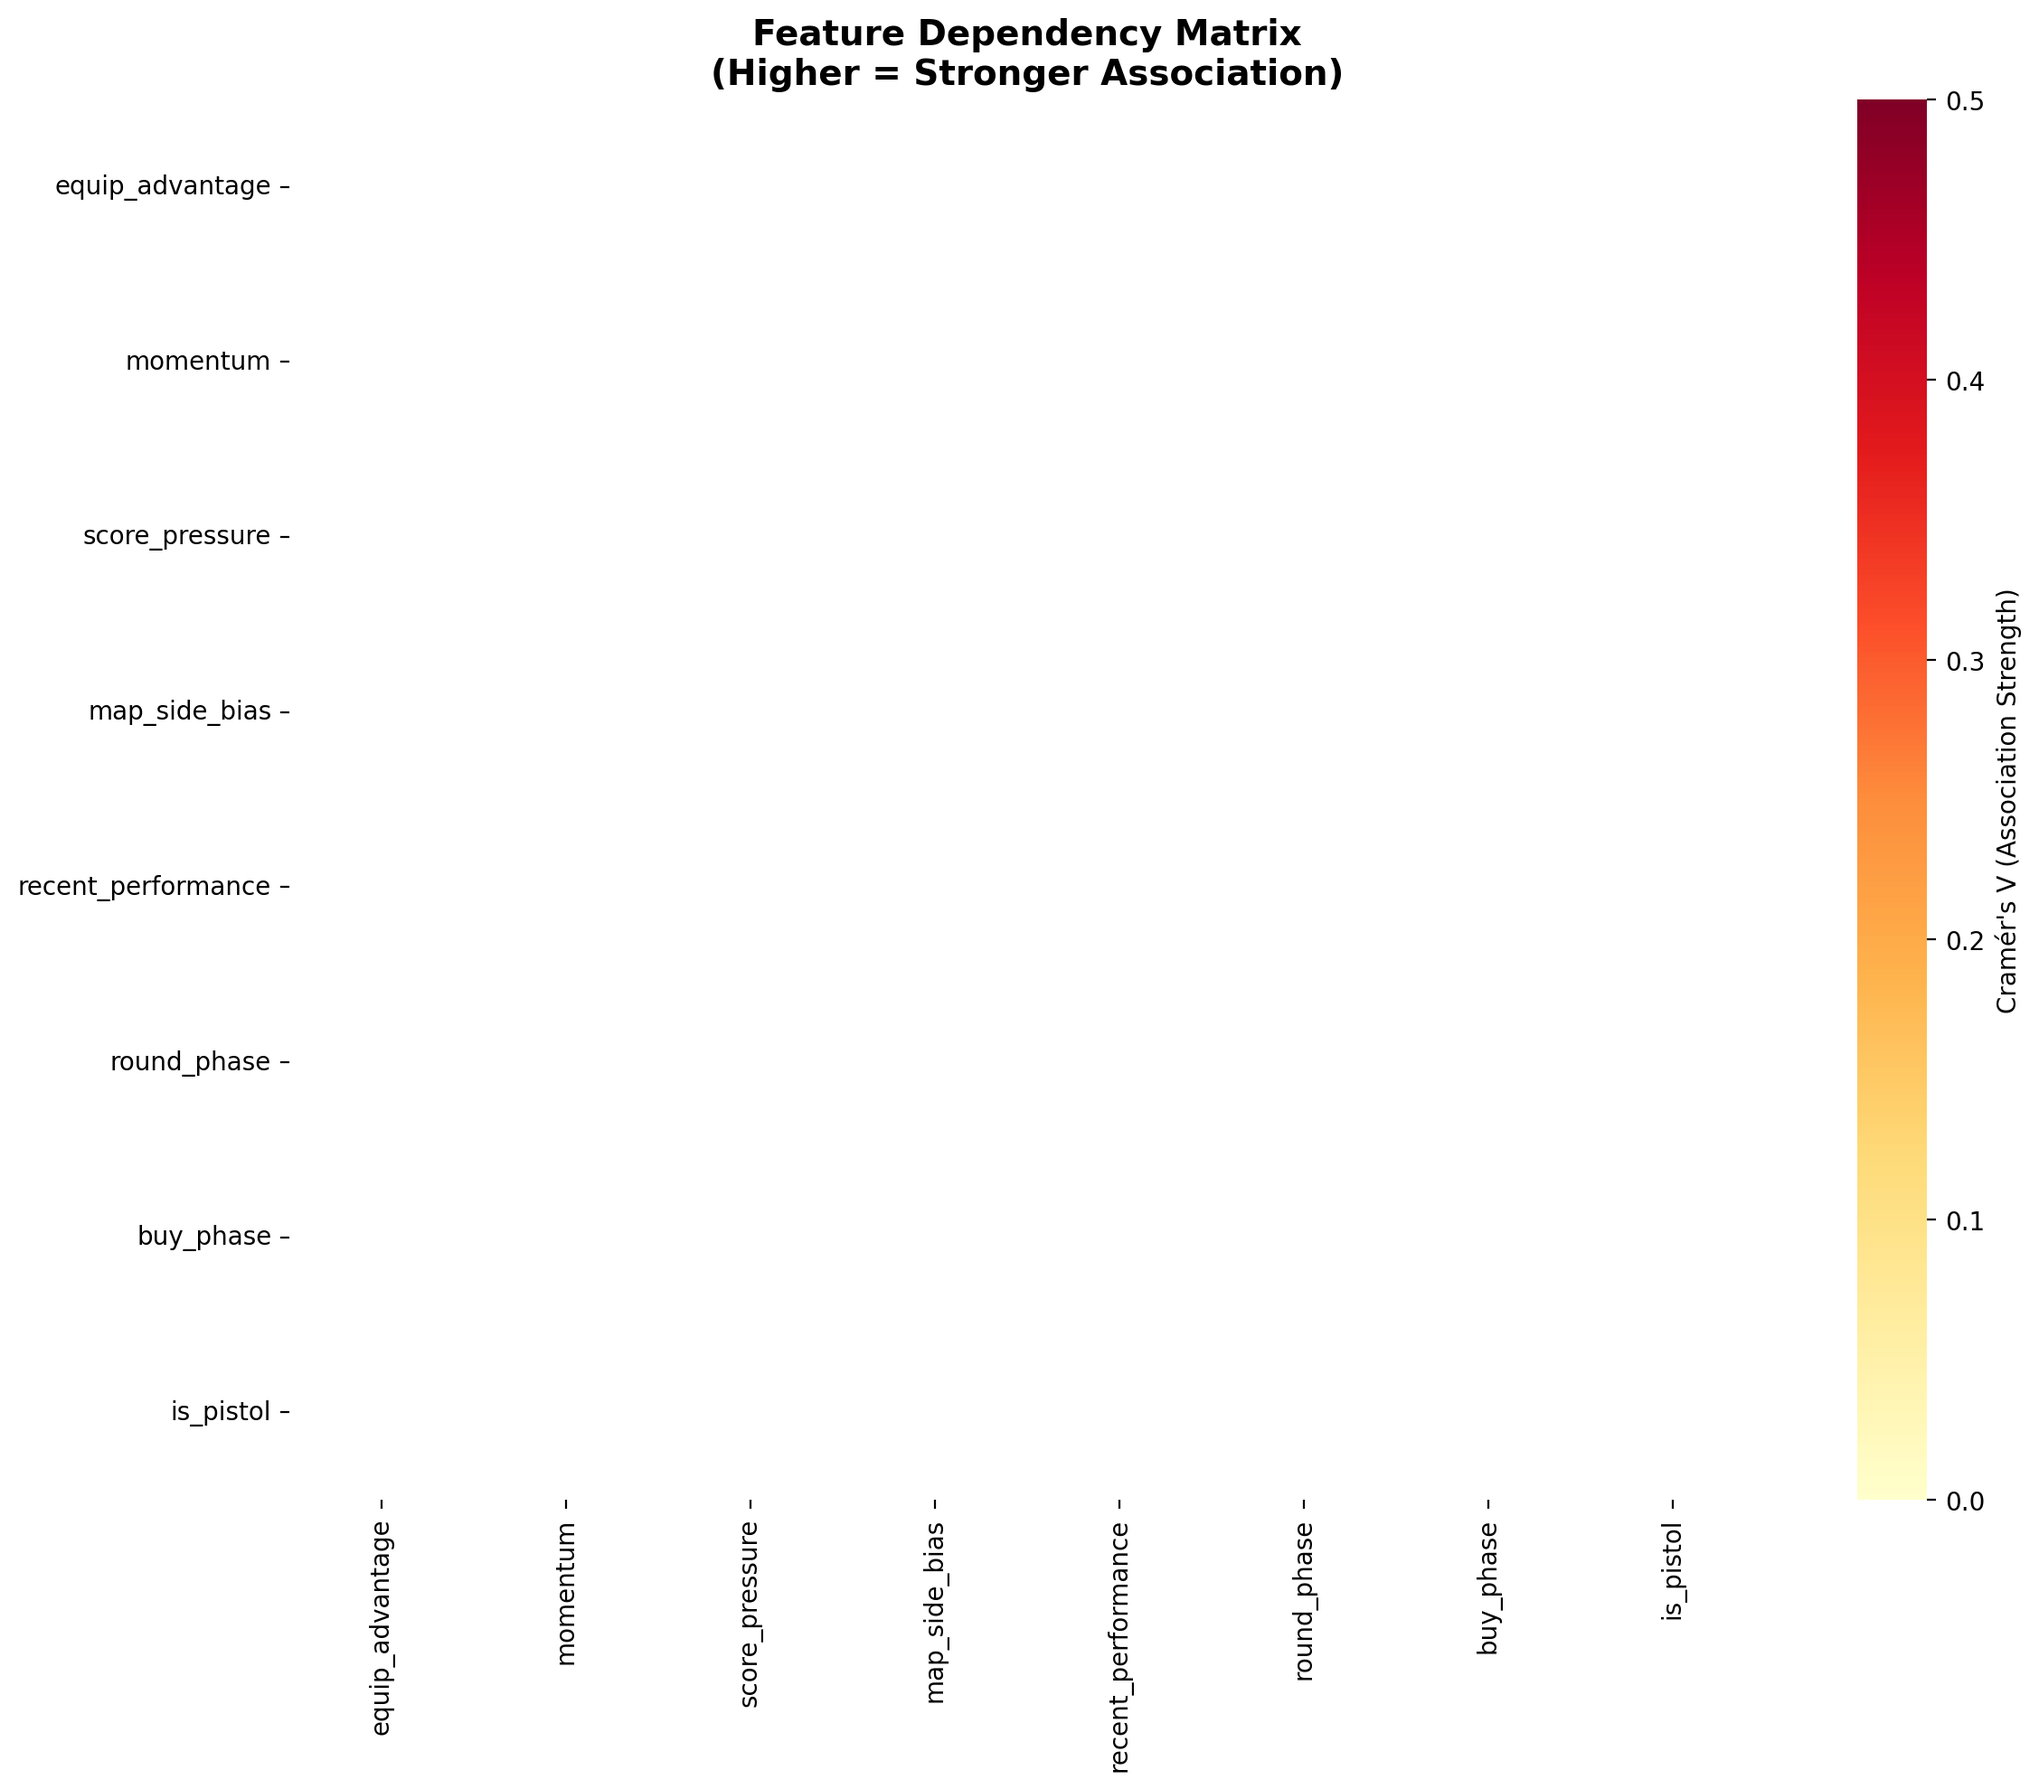
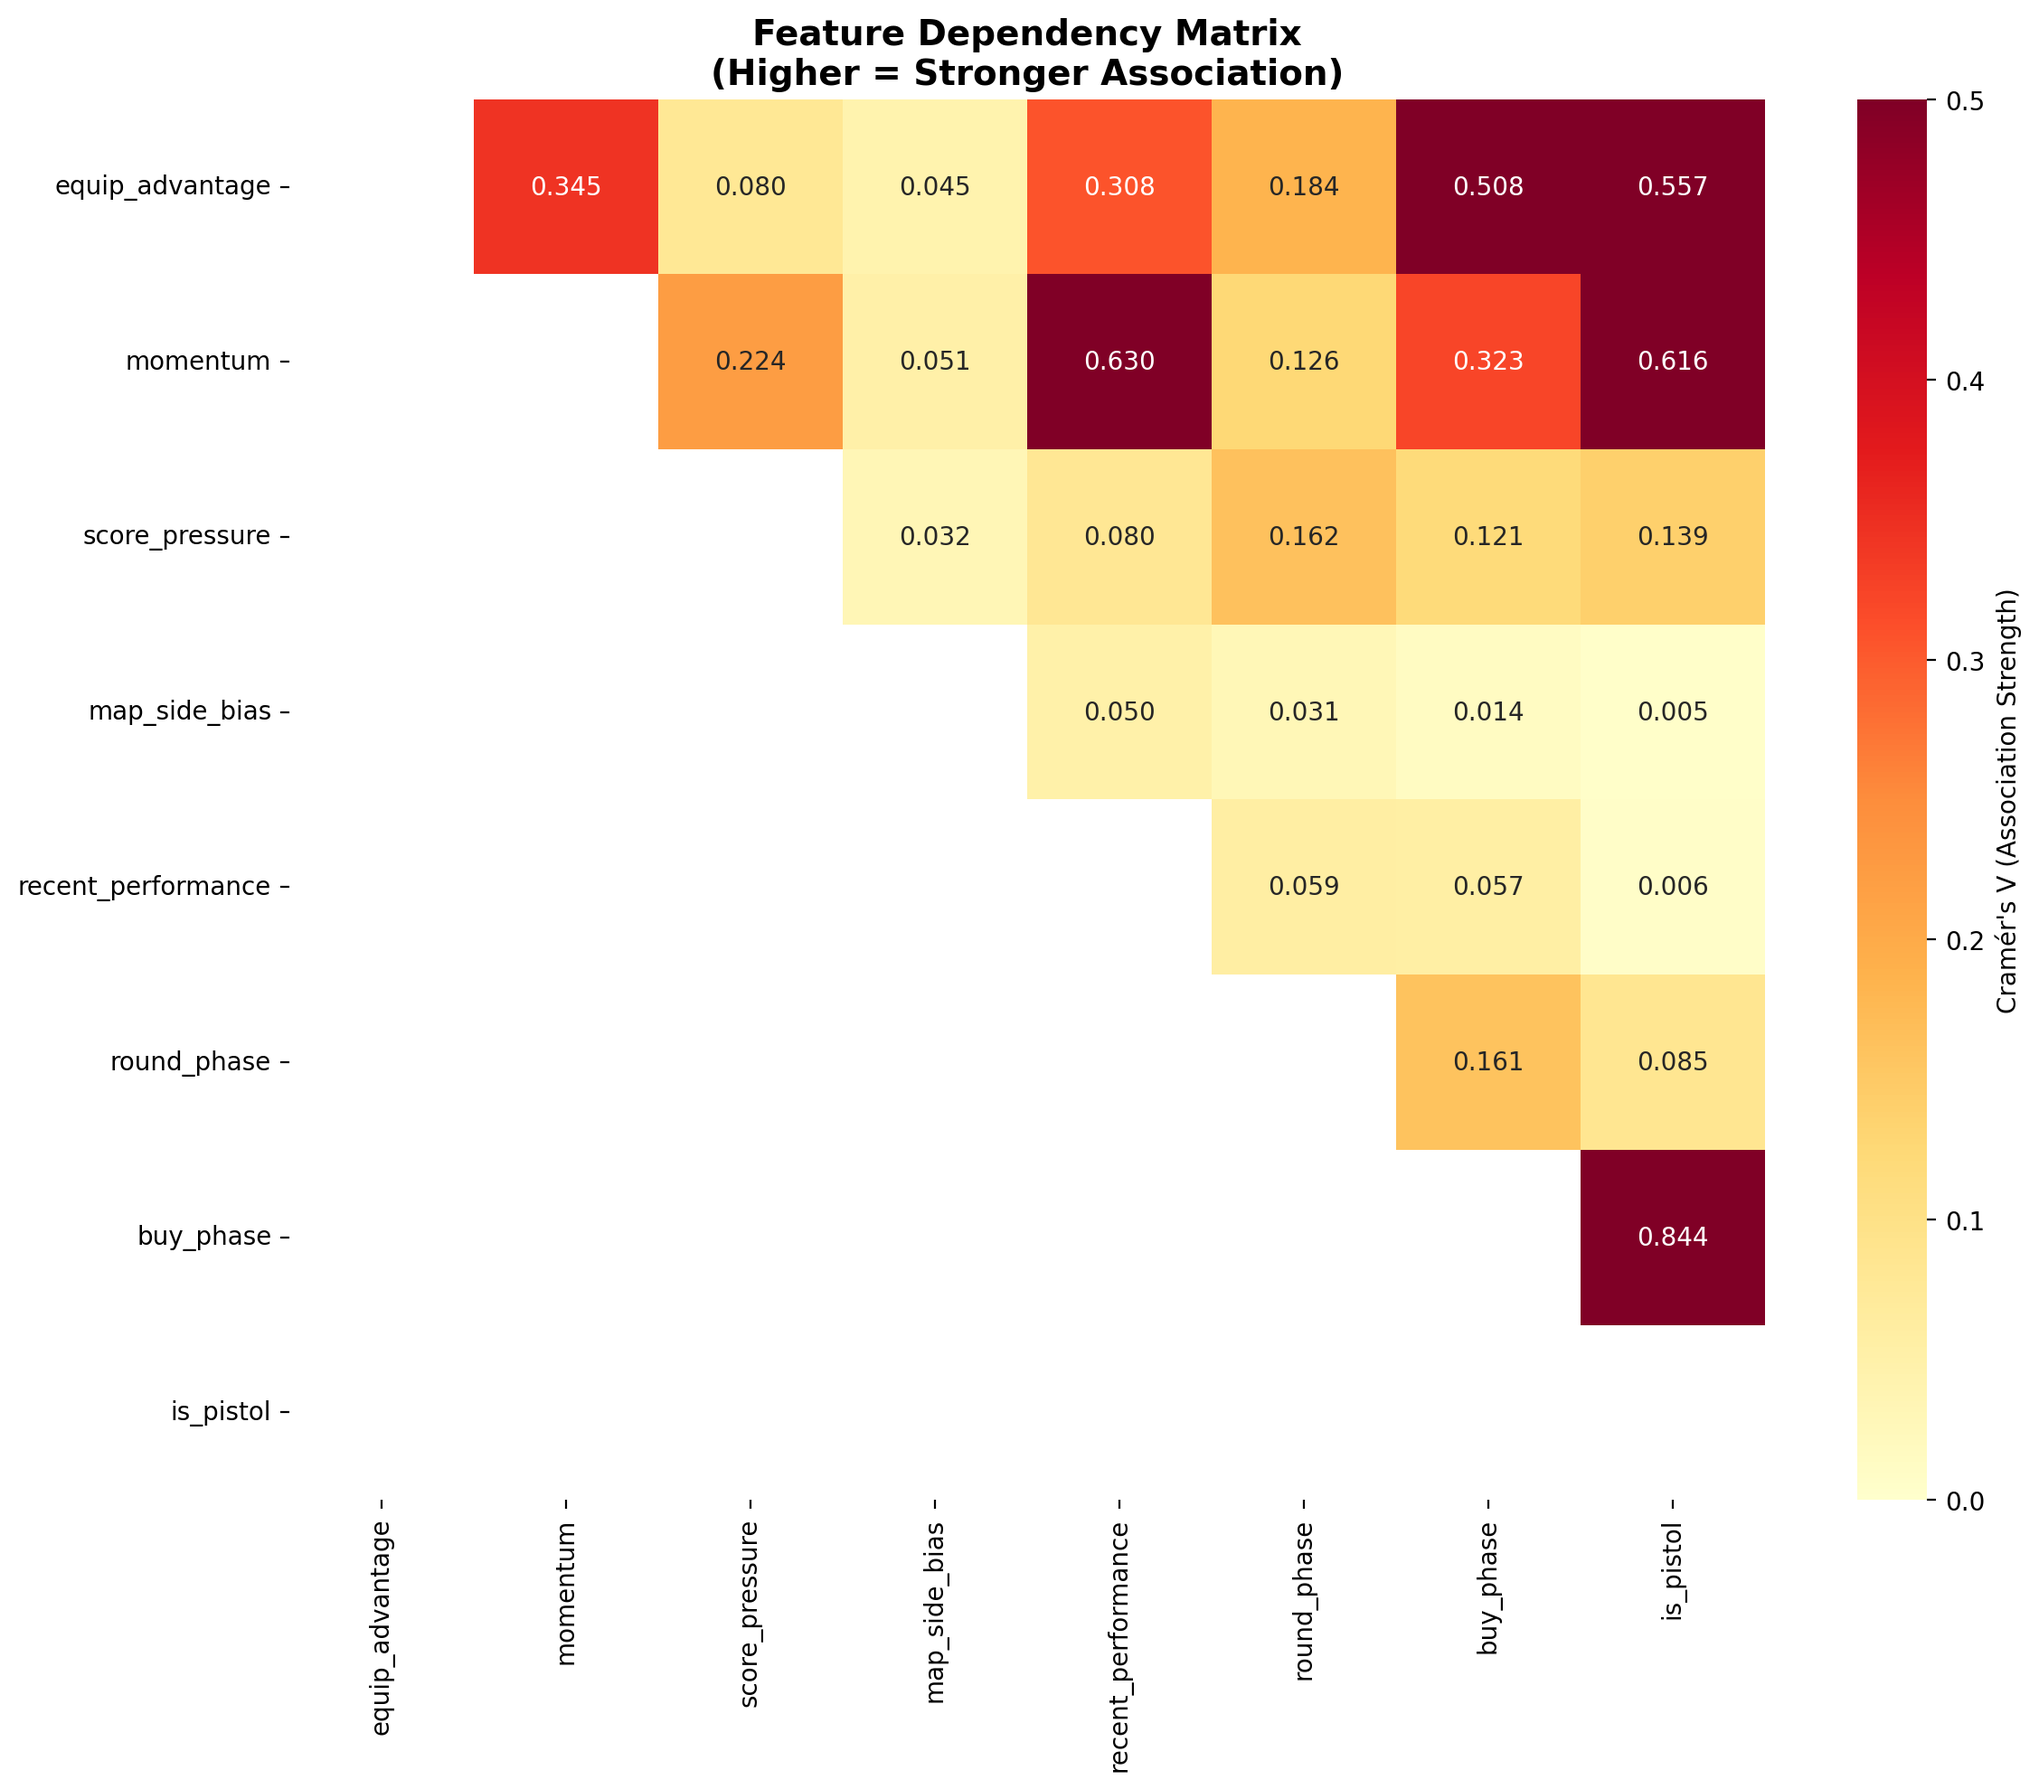
matrix refine

Changed region(s): [[0.2173, 0.0308, 0.8692, 0.7398]]

diff --git a/scripts/bn_data_preparation.py b/scripts/bn_data_preparation.py
@@ -508,7 +508,8 @@ def test_conditional_independence(df_disc: pd.DataFrame) -> pd.DataFrame:
     # Visualize dependency matrix
     fig, ax = plt.subplots(figsize=(12, 10))
     
-    mask = np.triu(np.ones_like(dependency_matrix.astype(float), dtype=bool))
+    # We populated only the upper triangle; mask the lower to reveal values
+    mask = np.tril(np.ones_like(dependency_matrix.astype(float), dtype=bool))
     
     sns.heatmap(
         dependency_matrix.astype(float),
